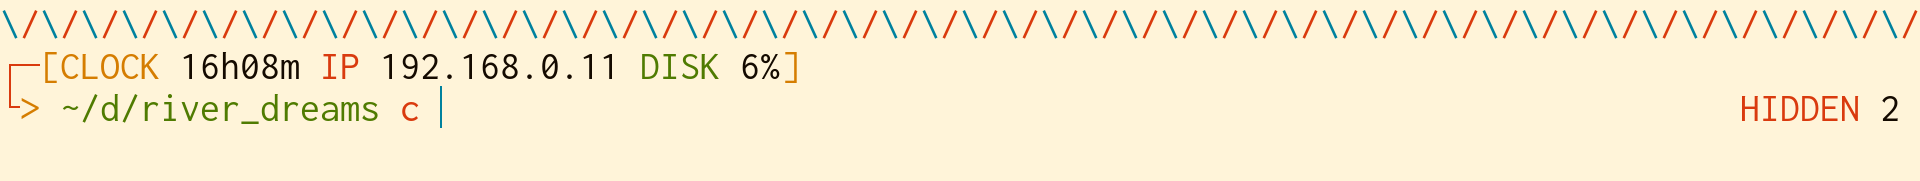
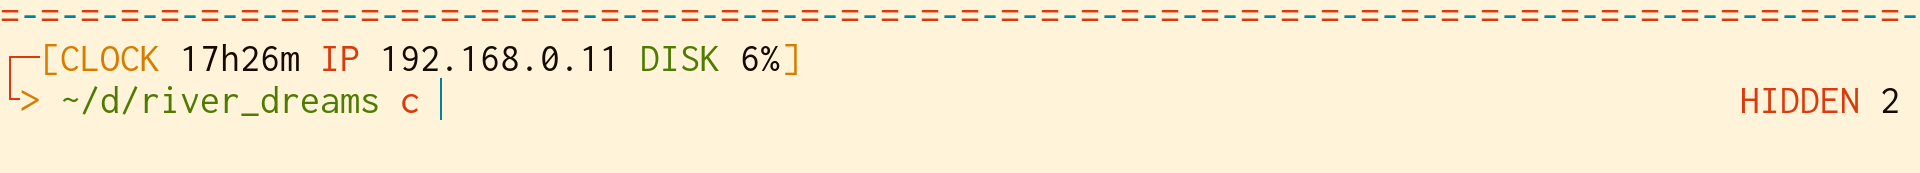
refactor: change fallback symbols for separator

diff --git a/sources/left_prompt.c b/sources/left_prompt.c
@@ -40,13 +40,13 @@ print_separator(void)
 		if (i % 2 == 0) {
 			printf(
 				"%%F{red}%s%%f",
-				choose_symbol_by_environment("▲", "/")
+				choose_symbol_by_environment("▲", "=")
 			);
 		} else {
 			printf(
 				"%%F{%s}%s%%f",
 				choose_color_by_environment("yellow", "blue"),
-				choose_symbol_by_environment("▼", "\\")
+				choose_symbol_by_environment("▼", "-")
 			);
 		}
 	}
